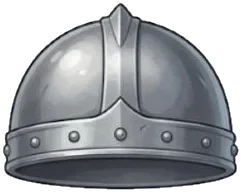
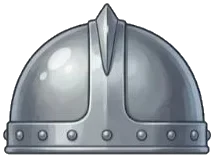
Čepice a helmy ploché zepředu (bez spodní strany lemu), stažené do čela; cache v5
Claude-Session: https://claude.ai/code/session_016cKgCi1QvsGMteN4UTfsoF

diff --git a/index.html b/index.html
@@ -1754,7 +1754,7 @@ const WGRIP={1:[.417,.842],2:[.48,.82],3:[.49,.829],4:[.492,.836],5:[.49,.836],6
 const BOOT_COL={1:'#7a4a22',2:'#8f99a6',3:'#e6edf7',4:'#c8321e',5:'#7fbfff'}; // kožené, rytířské (ocel), okřídlené (stříbrné), dračí, hvězdné
 // [šířka × šířka hlavy, posun spodní hrany nad obočí (zlomek výšky postavy)] – koruny jsou menší a sedí na vlasech
 // [šířka × šířka hlavy, posun spodní hrany nad obočí] – ploché koruny sedí pásem na vlasech nad čelem
-const HEAD_FIT={4:[1.08,0],5:[1.0,.03],7:[1.0,.03]};
+const HEAD_FIT={1:[1.0,.01],2:[1.0,.01],3:[1.0,.01],4:[1.02,.01],5:[1.0,.03],6:[1.06,.0],7:[1.0,.03]};
 function heroFigLayers(p, cls){
   const g=p.gender==='f'?'f':'m', e=p.eq||{}, l=lookOf(p), ar=Math.max(0,Math.min(7,e.armor||0)), k=g+ar;
   const [W,H,lx,ly,rx,ry,fc,fw,t0,t1]=BODY[k], [brow,hw]=HEAD_GEO[g], cx=fc;

diff --git a/src/part_img.js b/src/part_img.js
@@ -17,7 +17,7 @@ const WGRIP={1:[.417,.842],2:[.48,.82],3:[.49,.829],4:[.492,.836],5:[.49,.836],6
 const BOOT_COL={1:'#7a4a22',2:'#8f99a6',3:'#e6edf7',4:'#c8321e',5:'#7fbfff'}; // kožené, rytířské (ocel), okřídlené (stříbrné), dračí, hvězdné
 // [šířka × šířka hlavy, posun spodní hrany nad obočí (zlomek výšky postavy)] – koruny jsou menší a sedí na vlasech
 // [šířka × šířka hlavy, posun spodní hrany nad obočí] – ploché koruny sedí pásem na vlasech nad čelem
-const HEAD_FIT={4:[1.08,0],5:[1.0,.03],7:[1.0,.03]};
+const HEAD_FIT={1:[1.0,.01],2:[1.0,.01],3:[1.0,.01],4:[1.02,.01],5:[1.0,.03],6:[1.06,.0],7:[1.0,.03]};
 function heroFigLayers(p, cls){
   const g=p.gender==='f'?'f':'m', e=p.eq||{}, l=lookOf(p), ar=Math.max(0,Math.min(7,e.armor||0)), k=g+ar;
   const [W,H,lx,ly,rx,ry,fc,fw,t0,t1]=BODY[k], [brow,hw]=HEAD_GEO[g], cx=fc;

diff --git a/sw.js b/sw.js
@@ -1,5 +1,5 @@
 // Chytrolínci – offline cache (stránka vždy čerstvá ze sítě, obrázky z cache)
-const C='chytrolinci-v4';
+const C='chytrolinci-v5';
 self.addEventListener('install', e=>{ self.skipWaiting(); e.waitUntil(caches.open(C).then(c=>c.addAll(['./','./index.html','./config.js','./manifest.webmanifest','./icon-192.png']).catch(()=>{}))); });
 self.addEventListener('activate', e=>{ e.waitUntil(caches.keys().then(ks=>Promise.all(ks.filter(k=>k!==C).map(k=>caches.delete(k)))).then(()=>self.clients.claim())); });
 self.addEventListener('fetch', e=>{
